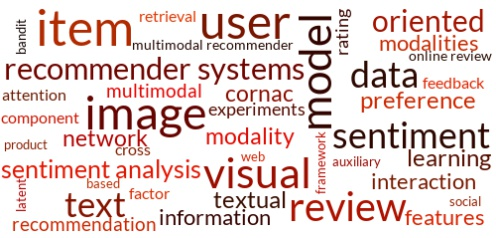
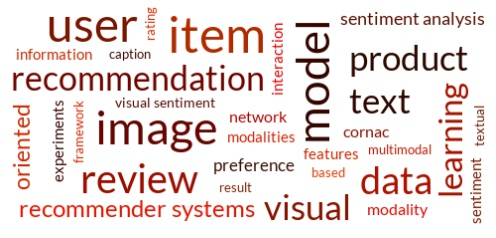
update wc

diff --git a/index.html b/index.html
@@ -111,7 +111,7 @@
 
             <div id="research">
                 <div class="research-col-1">
-                    <img src="./assets/wc.jpg?v=1.11" />
+                    <img src="./assets/wc.jpg?v=1.12" />
                 </div>
                 <div class="research-col-2">
                     <p id="title"><strong>Research Interests:</strong>

diff --git a/wc.py b/wc.py
@@ -1,4 +1,7 @@
 text = """
+AmpSum: Adaptive Multiple-Product Summarization towards Improving Recommendation Captions
+In e-commerce websites, multiple related product recommendations are usually organized into “widgets”, each given a name, as a recommendation caption, to describe the products within. These recommendation captions are usually manually crafted and generic in nature, making it difficult to attach meaningful and informative names at scale. As a result, the captions are inadequate in helping customers to better understand the connection between the multiple recommendations and make faster product discovery. We propose an Adaptive Multiple-Product Summarization framework (AmpSum) that automatically and adaptively generates widget captions based on different recommended products. The multiplicity of products to be summarized in a widget caption is particularly novel. The lack of well-developed labels motivates us to design a weakly supervised learning approach with distant supervision to bootstrap the model learning from pseudo labels, and then fine-tune the model with a small amount of manual labels. To validate the efficacy of this method, we conduct extensive experiments on several product categories of Amazon data. The results demonstrate that our proposed framework consistently outperforms state-of-the-art baselines over 9.47-29.14% on ROUGE and 27.31% on METEOR. With case studies, we illustrate how AmpSum could adaptively generate summarization based on different product recommendations.
+
 Multi-Modal Recommender Systems: Hands-On Exploration
 Recommender systems typically learn from user-item preference data such as ratings and clicks. This information is sparse in nature, i.e., observed user-item preferences often represent less than 5% of possible interactions. One promising direction to alleviate data sparsity is to leverage auxiliary information that may encode additional clues on how users consume items. Examples of such data (referred to as modalities) are social networks, item’s descriptive text, product images. The objective of this tutorial is to offer a comprehensive review of recent advances to represent, transform and incorporate the different modalities into recommendation models. Moreover, through practical hands-on sessions, we consider cross model/modality comparisons to investigate the importance of different methods and modalities. The hands-on exercises are conducted with Cornac (https://cornac.preferred.ai), a comparative framework for multimodal recommender systems. The materials are made available on https://preferred.ai/recsys21-tutorial/.
 
@@ -72,10 +75,10 @@ wc = WordCloud(
     font_path="./assets/fonts/Lato-Regular.ttf",
     width=500,
     height=240,
-    margin=2,
+    margin=16,
     background_color="white",
     color_func=color_fn,
-    max_words=42,
+    max_words=32,
     stopwords=STOPWORDS,
     min_font_size=10,
     max_font_size=50,
